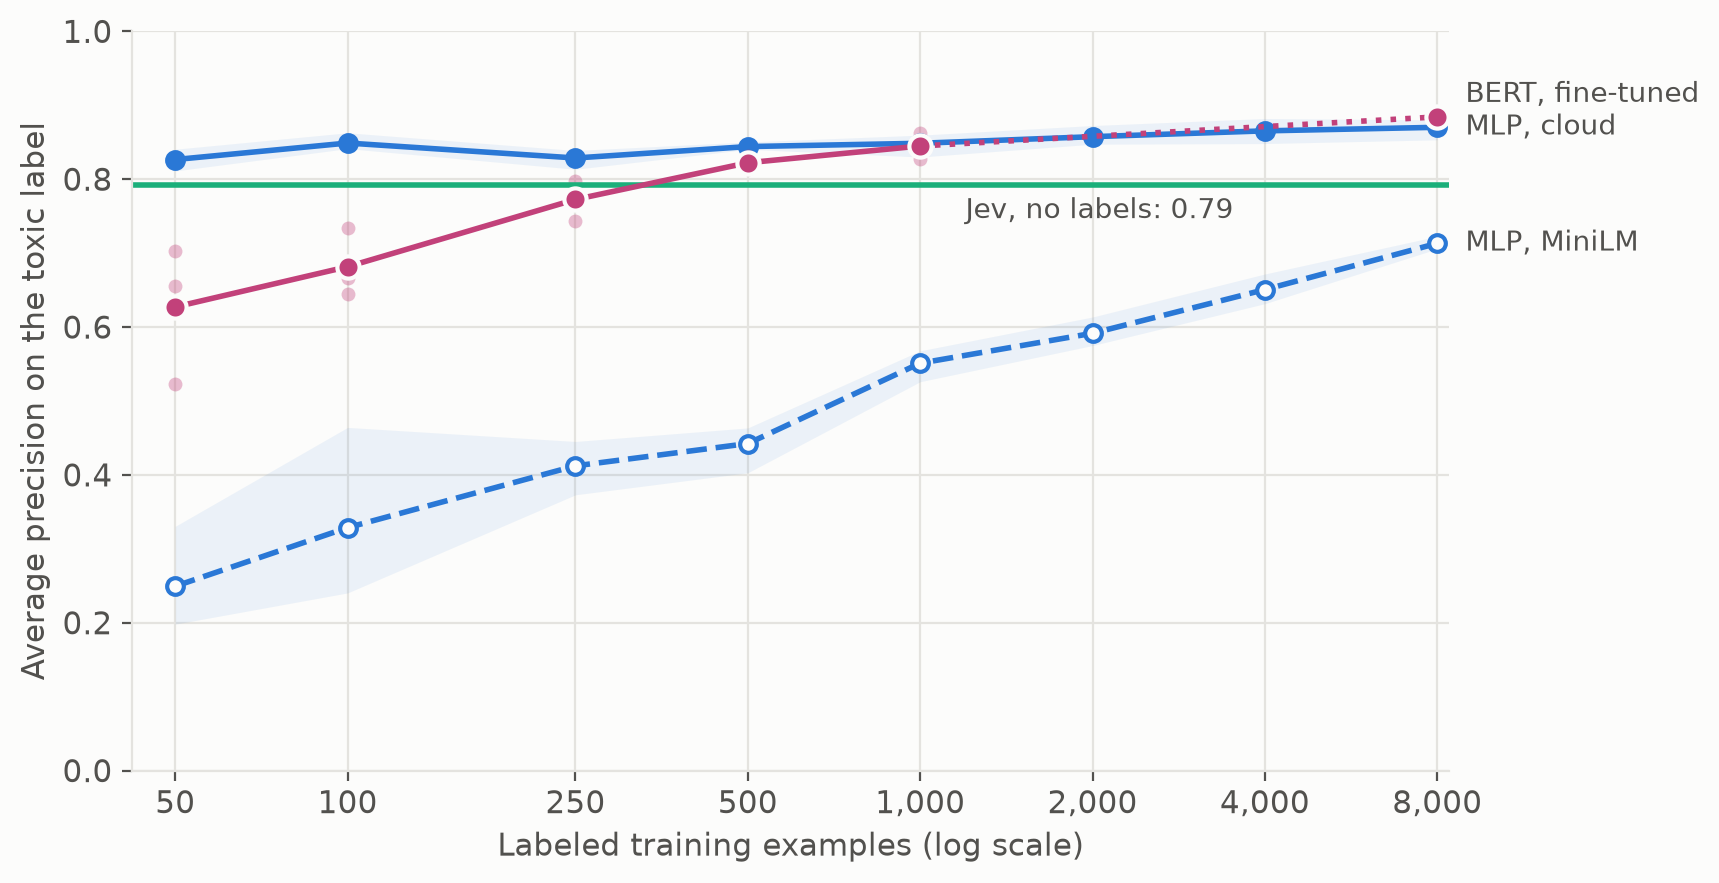
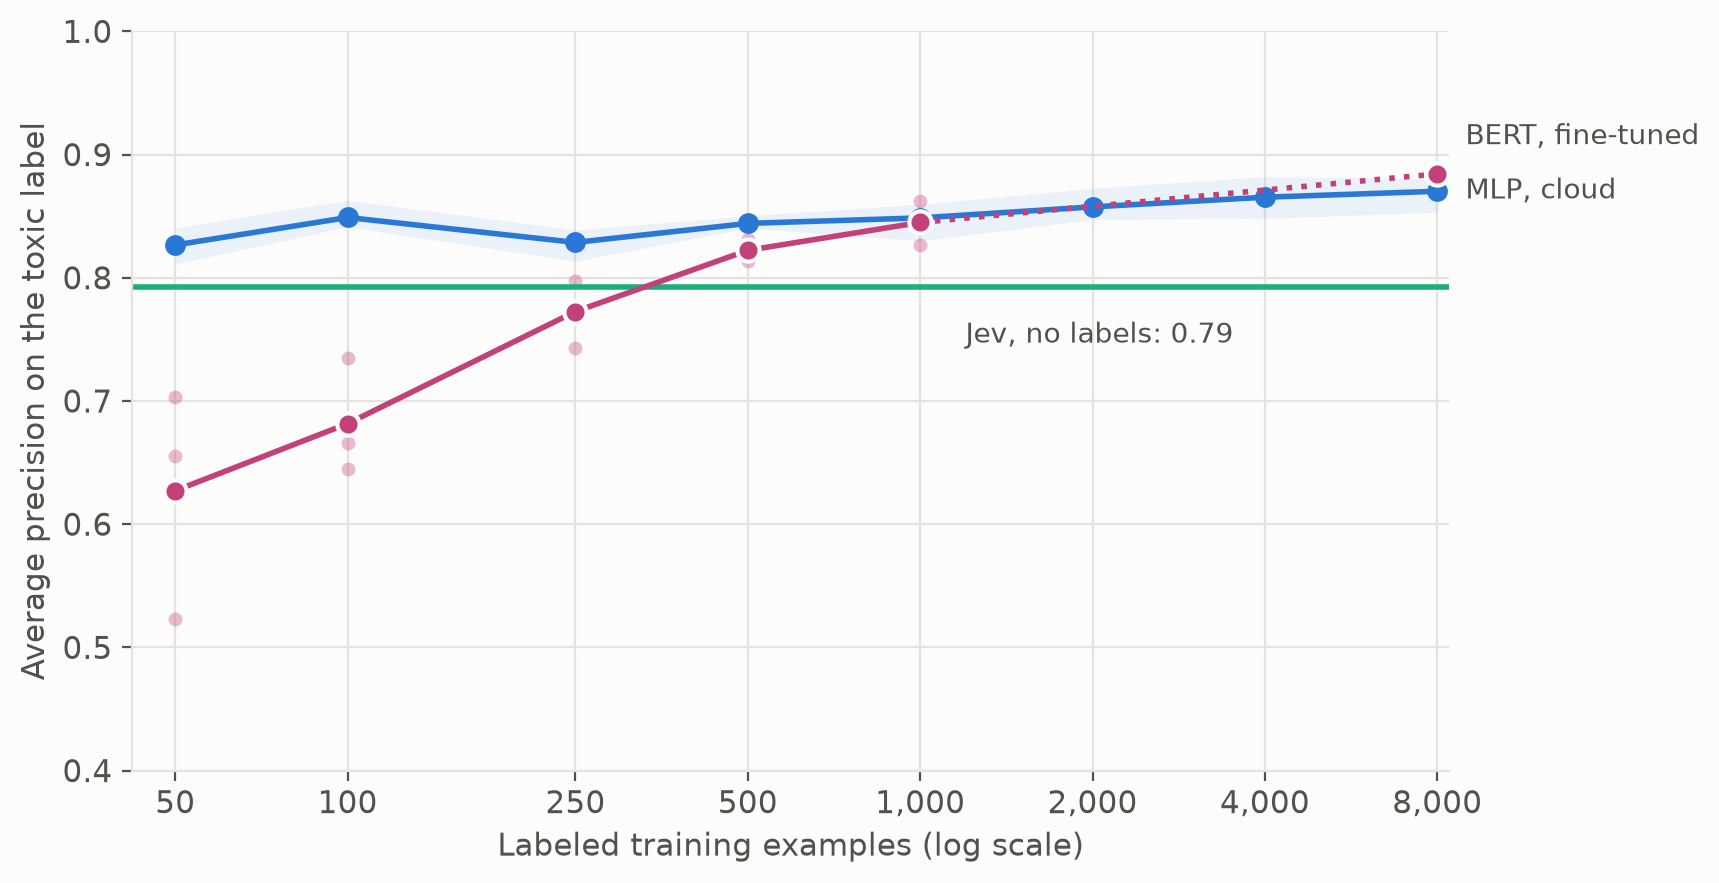
Focus the BERT article on Jev and the cloud models
MiniLM was already covered in the first post; drop it from the text, the
F1, label-sweep and latency tables, and Figures 1 and 3.

diff --git a/charts_bert.py b/charts_bert.py
@@ -21,19 +21,18 @@ MODELS = [  # key, label, color, filled marker?
     ("pytorch_gemini", "MLP, cloud embeddings", BLUE, True),
     ("knn_gemini", "k-NN, cloud embeddings", ORANGE, True),
     ("jev", "Jev (no training)", AQUA, True),
-    ("pytorch_minilm", "MLP, MiniLM embeddings", BLUE, False),
-    ("knn_minilm", "k-NN, MiniLM embeddings", ORANGE, False),
 ]
 
 
 # 1. Ranking quality on `toxic`, as in the first article, with BERT added.
 def ranking():
-    fig, axes = plt.subplots(1, 2, figsize=(9, 3.9), sharey=True)
+    fig, axes = plt.subplots(1, 2, figsize=(9, 3.0), sharey=True)
     ys = np.arange(len(MODELS))[::-1]
-    for ax, metric, ci_key, title in [
-        (axes[0], "roc_auc", "toxic_roc_auc", "ROC-AUC"),
-        (axes[1], "avg_precision", "toxic_avg_precision", "Average precision"),
+    for ax, metric, ci_key, title, xlim in [
+        (axes[0], "roc_auc", "toxic_roc_auc", "ROC-AUC", (0.92, 1.0)),
+        (axes[1], "avg_precision", "toxic_avg_precision", "Average precision", (0.70, 0.95)),
     ]:
+        ax.set_xlim(*xlim)
         for y, (key, label, color, filled) in zip(ys, MODELS):
             m = FD["models"][key]
             v = m["per_label"]["toxic"][metric]
@@ -41,11 +40,9 @@ def ranking():
             ax.plot([lo, hi], [y, y], color=color, linewidth=2, solid_capstyle="round")
             ax.plot([v], [y], "o", markersize=9, color=color if filled else SURF,
                     markeredgecolor=color, markeredgewidth=2, zorder=5)
-            ax.text(hi + 0.008, y, f"{v:.2f}", va="center", fontsize=10, color=INK2)
+            ax.text(hi + (xlim[1] - xlim[0]) * 0.03, y, f"{v:.2f}", va="center", fontsize=10, color=INK2)
         ax.set_title(title, loc="left", fontsize=11, color=INK, pad=10)
         grid(ax, "x")
-    axes[0].set_xlim(0.80, 1.0)
-    axes[1].set_xlim(0.45, 0.97)
     axes[0].set_yticks(ys)
     axes[0].set_yticklabels([m[1] for m in MODELS])
     axes[0].tick_params(axis="y", length=0)
@@ -90,7 +87,7 @@ def labels_needed():
     sweep_runs = R["sweep"]["runs"]
 
     fig, ax = plt.subplots(figsize=(8.5, 4.8))
-    for emb, color, ls, label in [("gemini", BLUE, "-", "MLP, cloud"), ("minilm", BLUE, "--", "MLP, MiniLM")]:
+    for emb, color, ls, label in [("gemini", BLUE, "-", "MLP, cloud")]:
         n = sorted({r["n"] for r in sweep_runs if r["n"] >= 50})
         v = [[r["mlp"]["toxic_ap"] for r in sweep_runs if r["embedding"] == emb and r["n"] == x and r["rep"] in reps]
              for x in n]
@@ -117,7 +114,7 @@ def labels_needed():
     ticks = [50, 100, 250, 500, 1000, 2000, 4000, 8000]
     ax.set_xticks(ticks); ax.set_xticklabels([f"{t:,}" for t in ticks])
     ax.minorticks_off()
-    ax.set_xlim(42, 8000 * 1.05); ax.set_ylim(0, 1)
+    ax.set_xlim(42, 8000 * 1.05); ax.set_ylim(0.4, 1)
     ax.set_xlabel("Labeled training examples (log scale)")
     ax.set_ylabel("Average precision on the toxic label")
     grid(ax)

diff --git a/article-bert.md b/article-bert.md
@@ -1,11 +1,11 @@
-In my [last post][prev], I compared [Jev][jev] with two custom models built from labeled comments: a small neural network (MLP) and k-nearest neighbors (k-NN). Both custom models start from an embedding of each comment, and the biggest lesson was that the embedding model mattered more than anything else. With cloud embeddings, the custom models beat Jev with about a hundred labels. With MiniLM, a small model that runs locally, neither of them ever caught up.
+In my [last post][prev], I compared [Jev][jev] with two custom models built from labeled comments: a small neural network (MLP) and k-nearest neighbors (k-NN). Both custom models start from an embedding of each comment, and with cloud embeddings they beat Jev once they had about a hundred labels.
 
-Another common way to build a text classifier is to **fine-tune** a pretrained language model like BERT, and I was curious how that would perform against Jev. It works differently from the custom models in the last post. In both of them, MiniLM turns each comment into a list of numbers once, and that list never changes. The MLP can only learn which of those numbers matter, not how to compute better ones. Fine-tuning adjusts every one of the language model's weights on the labeled data instead.
+Another common way to build a text classifier is to **fine-tune** a pretrained language model like BERT, and I was curious how that would perform against Jev. It works differently from the custom models in the last post. In both of them, an embedding model turns each comment into a list of numbers once, and that list never changes. The MLP can only learn which of those numbers matter, not how to compute better ones. Fine-tuning adjusts every one of the language model's weights on the labeled data instead.
 
 So I fine-tuned BERT on the same 8,000 comments and scored it on the same 2,000. The short version: on the common labels, it's the best model in the comparison, and nothing goes to the cloud. But it's slower, much bigger, and it misses almost every comment on the two rarest labels.
 
 > [!NOTE]
-> **Fine-tuning vs. frozen embeddings.** In the last post, the embedding model was a fixed first step: MiniLM read the comment and produced 384 numbers, and the MLP only ever saw those numbers. Fine-tuning removes that boundary. A small classification layer goes on top of the language model, and training updates the whole stack, so the model can learn to pay attention to the words and phrases that matter for toxicity, like tone, slurs or a "you" aimed at another person, instead of whatever the embedding model was originally trained to capture.
+> **Fine-tuning vs. frozen embeddings.** In the last post, the embedding model was a fixed first step: it read the comment and produced a list of numbers, and the MLP only ever saw those numbers. Fine-tuning removes that boundary. A small classification layer goes on top of the language model, and training updates the whole stack, so the model can learn to pay attention to the words and phrases that matter for toxicity, like tone, slurs or a "you" aimed at another person, instead of whatever the embedding model was originally trained to capture.
 
 ## The setup
 
@@ -34,18 +34,14 @@ for batch, labels in batches:
 
 The difference from the last post is in the optimizer line. With frozen embeddings, the optimizer only gets the MLP's weights. Here it gets `model.parameters()`, all 110 million of them. The full script, with batching and evaluation, is `src/eval_bert.py` in [the repository][repo].
 
-BERT is about five times the size of MiniLM, so this isn't a like-for-like test of fine-tuning versus freezing the same model. It answers a more practical question: can a model I run myself match the cloud embeddings?
-
 ## Ranking comments
 
-![Ranking quality on the toxic label for all six configurations, measured with ROC-AUC and average precision](/images/bert-ranking.png)
-*Figure 1: How well each approach ranks toxic comments above clean ones on the `toxic` label. Each line is a 95% bootstrap interval. Fine-tuned BERT has the best average precision of the six.*
+![Ranking quality on the toxic label for fine-tuned BERT, the MLP and k-NN on cloud embeddings, and Jev, measured with ROC-AUC and average precision](/images/bert-ranking.png)
+*Figure 1: How well each approach ranks toxic comments above clean ones on the `toxic` label. Each line is a 95% bootstrap interval. Fine-tuned BERT has the best score on both.*
 
-On `toxic`, BERT reaches 0.98 ROC-AUC and 0.88 average precision, the best of the six configurations on both. The gap to the MLP on cloud embeddings, 0.88 against 0.85, is small but holds up: in a paired bootstrap, BERT comes out ahead in 99% of resamples. Against Jev, it's ahead in every resample.
+On `toxic`, BERT reaches 0.98 ROC-AUC and 0.88 average precision, the best of the four on both. The gap to the MLP on cloud embeddings, 0.88 against 0.85, is small but holds up: in a paired bootstrap, BERT comes out ahead in 99% of resamples. Against Jev, it's ahead in every resample.
 
 It isn't the best ranker I've built on this dataset, though. In the last post, k-NN on cloud embeddings with 51 neighbors reached 0.90 average precision. BERT and that k-NN are a statistical tie.
-
-For a model I can run myself, the useful comparison is with the other local models. The MLP on MiniLM embeddings, the one that runs in the browser, reaches 0.71 average precision. Fine-tuning takes a local model from 0.71 to 0.88, past both models built on cloud embeddings.
 
 ## Making decisions
 
@@ -57,7 +53,6 @@ The scores are also well calibrated. BERT's default 0.5 threshold gives 0.81 F1 
 | k-NN, cloud embeddings | **0.80** | **0.57** |
 | MLP, cloud embeddings | 0.77 | 0.54 |
 | Jev | 0.70 | 0.51 |
-| MLP, MiniLM embeddings | 0.65 | 0.43 |
 
 On `toxic`, BERT ties k-NN on cloud embeddings for the best F1. Better ranking doesn't always become better decisions, which is what I saw with 51-neighbor k-NN too. Averaged over all six labels, in the right-hand column, BERT drops below Jev, because of the two rarest labels.
 
@@ -85,22 +80,21 @@ The likely explanation is that all six labels share one model, trained together 
 
 The last post's most useful chart showed how quality changes with the number of labels. I repeated it for BERT, training on 50 to 1,000 comments, three times per size, with the same random subsets the MLP and k-NN used. Each run got 1,500 training steps, the same as the full 8,000-comment run, so a small training set is seen many more times. That's the same rule the MLP sweep follows, and it matters. My first sweep gave the small runs only 200 steps, and 4 of its 15 models didn't catch a single toxic comment at the default 0.5 threshold.
 
-![Average precision on the toxic label as the number of labeled training examples grows, for fine-tuned BERT, the MLP on cloud and MiniLM embeddings, and Jev](/images/bert-labels-needed.png)
-*Figure 3: Average precision on `toxic` as the training set grows. Light dots are individual BERT runs, and the MLP lines are the average over the same three subsets. The dotted segment joins the sweep to the single full-data run, with no runs in between.*
+![Average precision on the toxic label as the number of labeled training examples grows, for fine-tuned BERT, the MLP on cloud embeddings, and Jev](/images/bert-labels-needed.png)
+*Figure 3: Average precision on `toxic` as the training set grows. Light dots are individual BERT runs, and the MLP line is the average over the same three subsets. The dotted segment joins the sweep to the single full-data run, with no runs in between.*
 
-| Labeled comments | BERT | MLP, cloud | MLP, MiniLM |
+| Labeled comments | BERT | MLP, cloud | Jev |
 |---|---|---|---|
-| 50 | 0.63 | **0.83** | 0.25 |
-| 100 | 0.68 | **0.85** | 0.33 |
-| 250 | 0.77 | **0.83** | 0.41 |
-| 500 | 0.82 | **0.84** | 0.44 |
-| 1,000 | **0.85** | **0.85** | 0.55 |
-| 8,000 | **0.88** | 0.87 | 0.71 |
+| 50 | 0.63 | **0.83** | 0.79 |
+| 100 | 0.68 | **0.85** | 0.79 |
+| 250 | 0.77 | **0.83** | 0.79 |
+| 500 | 0.82 | **0.84** | 0.79 |
+| 1,000 | **0.85** | **0.85** | 0.79 |
+| 8,000 | **0.88** | 0.87 | 0.79 |
 
-*Average precision on `toxic`, averaged over the same three training subsets. The 8,000 row for BERT is the single full run. The MLP's 8,000 row comes from the sweep, which trains it a little differently from the single run in Figure 1, so it reads 0.87 here instead of 0.85.*
+*Average precision on `toxic`, averaged over the same three training subsets. The 8,000 row for BERT is the single full run. Jev uses no labels, so its score doesn't change. The MLP's 8,000 row comes from the sweep, which trains it a little differently from the single run in Figure 1, so it reads 0.87 here instead of 0.85.*
 
 - **Fine-tuning needs labels to make up for the embedding.** The cloud embeddings are already good at toxicity before the MLP sees a single label, so the MLP is near its best from 50 comments. BERT has to learn it, and only catches up at around 1,000 labels.
-- **It needs fewer labels than MiniLM, by far.** On average, BERT on 50 comments ranks better than the MLP on 1,000 MiniLM-embedded comments. If the comments can't leave your machine, fine-tuning is the better use of a small labeling budget.
 - **It passes Jev at around 500 labels on `toxic`.** All three runs at 500 beat Jev's 0.79, and at 250 only one of them did.
 
 The default threshold doesn't hold up on small training sets. At 50 labels, BERT's average F1 at 0.5 is 0.31, against 0.69 for the MLP on cloud embeddings. Small runs rank comments better than their F1 suggests, but their scores sit in the wrong place, so they'd need a threshold picked on held-out labels, the way Jev's threshold was picked in the last post.
@@ -111,18 +105,17 @@ Averaged over all six labels, BERT trained on 1,000 comments reaches 0.53 averag
 
 | Model | Median time per comment | Size | Where the comment goes |
 |---|---|---|---|
-| MiniLM + MLP | 10 ms | 91 MB | Nowhere |
 | BERT, laptop CPU | 52 ms | 438 MB | Nowhere |
 | BERT, Apple M1 Pro GPU | 13 ms | 438 MB | Nowhere |
 | Cloud embeddings + MLP | 254 ms | 2 MB | Google |
 | Jev, all six questions | 209 ms | none | TypeSafe |
 
-I timed BERT on the same AMD Ryzen 7 5800H CPU as the local pipelines in the last post, one comment at a time with four threads, and on the GPU of an M1 Pro. It's five times slower than MiniLM with the MLP on the same CPU, but still four times faster than a round trip to either cloud service. It costs nothing per comment.
+I timed BERT on the same AMD Ryzen 7 5800H CPU as the local pipelines in the last post, one comment at a time with four threads, and on the GPU of an M1 Pro. Even on the CPU, it's four times faster than a round trip to either cloud service. It costs nothing per comment.
 
 The costs are elsewhere:
 
 - **Training needs a GPU.** Fine-tuning on 8,000 comments took 9 minutes on the M1 Pro's GPU. On the Ryzen's CPU, fine-tuning on just 100 comments, for 200 training steps, took about 9 minutes. The MLP from the last post trains on all 8,000 comments in 3 to 7 seconds.
-- **It's big.** At 438 MB, it's almost five times the size of MiniLM. Running it in a reader's browser, as I did with MiniLM in [an earlier post][onnx], would mean a much larger download.
+- **It's big.** At 438 MB, running it in a reader's browser, as I did with a smaller model in [an earlier post][onnx], would mean a large download.
 - **It's one model per definition.** With frozen embeddings, changing a label means retraining a small MLP in seconds, or nothing at all for k-NN. With fine-tuning, any change to the labels means fine-tuning the whole model again.
 
 ## What this doesn't tell you
@@ -135,12 +128,12 @@ The costs are elsewhere:
 
 The last post ended with "the first thing to get right is the embedding model". Fine-tuning adds a second answer: let the model learn its own representation. A fine-tuned BERT running on my own hardware ranked toxic comments better than anything built on cloud embeddings, except a k-NN it tied, and its default threshold worked without tuning. Nothing leaves the machine.
 
-But it needs a GPU to train, it's five times slower and bigger than MiniLM, and on the rarest labels it did worse than Jev, which never saw a single example. For the common labels, with thousands of examples and a GPU, fine-tuning is the strongest option I've tried. For my blog, with a hundred comments and one question, it doesn't change my choice: Jev is still the right trade.
+But it needs a GPU to train, it's a 438 MB model, and on the rarest labels it did worse than Jev, which never saw a single example. For the common labels, with thousands of examples and a GPU, fine-tuning is the strongest option I've tried. For my blog, with a hundred comments and one question, it doesn't change my choice: Jev is still the right trade.
 
 ## What to try next
 
 - **Fix the rare labels.** The label sweep hints that the full run simply didn't train long enough on `threat` and `identity_hate`. Training for more passes, weighting the rare labels more heavily in the loss, or training a separate model per label are all small changes to the loop above.
-- **Fine-tune a smaller model.** DistilBERT, or MiniLM itself, could keep most of the quality at a size that still fits in a browser.
+- **Fine-tune a smaller model.** A smaller model like DistilBERT could keep most of the quality at a size that fits in a browser.
 
 The code, cached predictions and analysis scripts are in [the repository][repo], including the sweep script, so you can try either one yourself. If you do, I'd love to hear how it goes!
 
